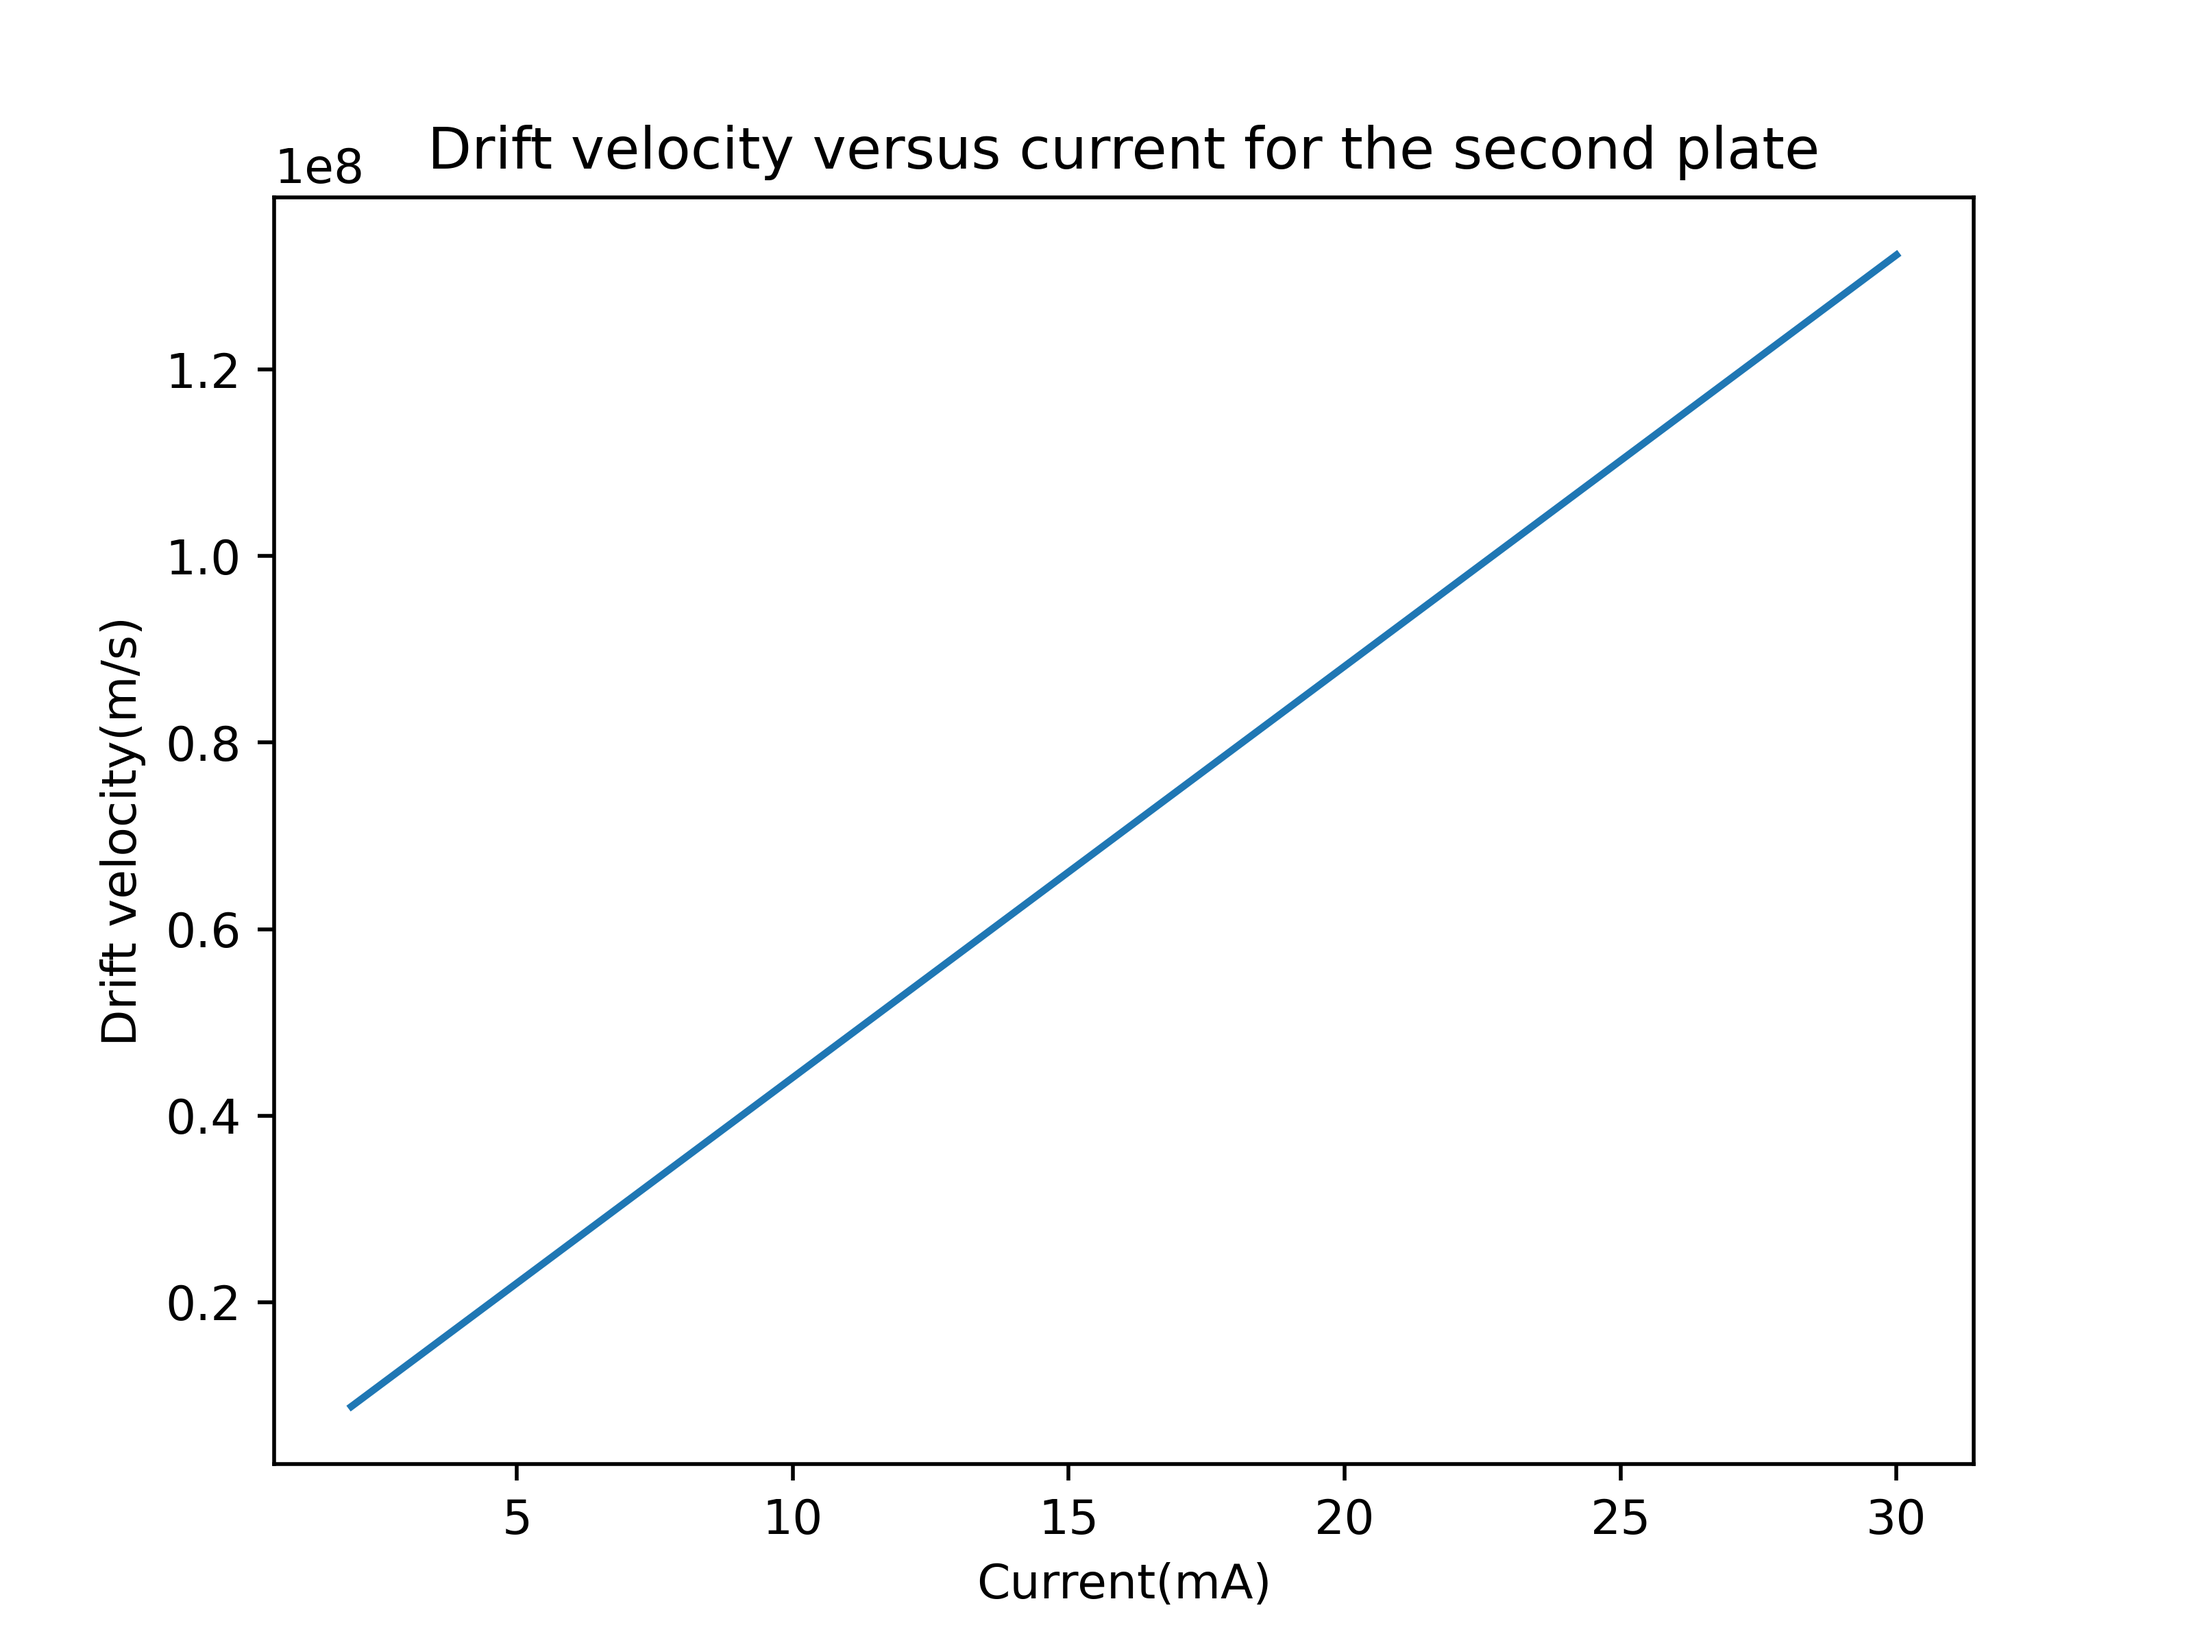
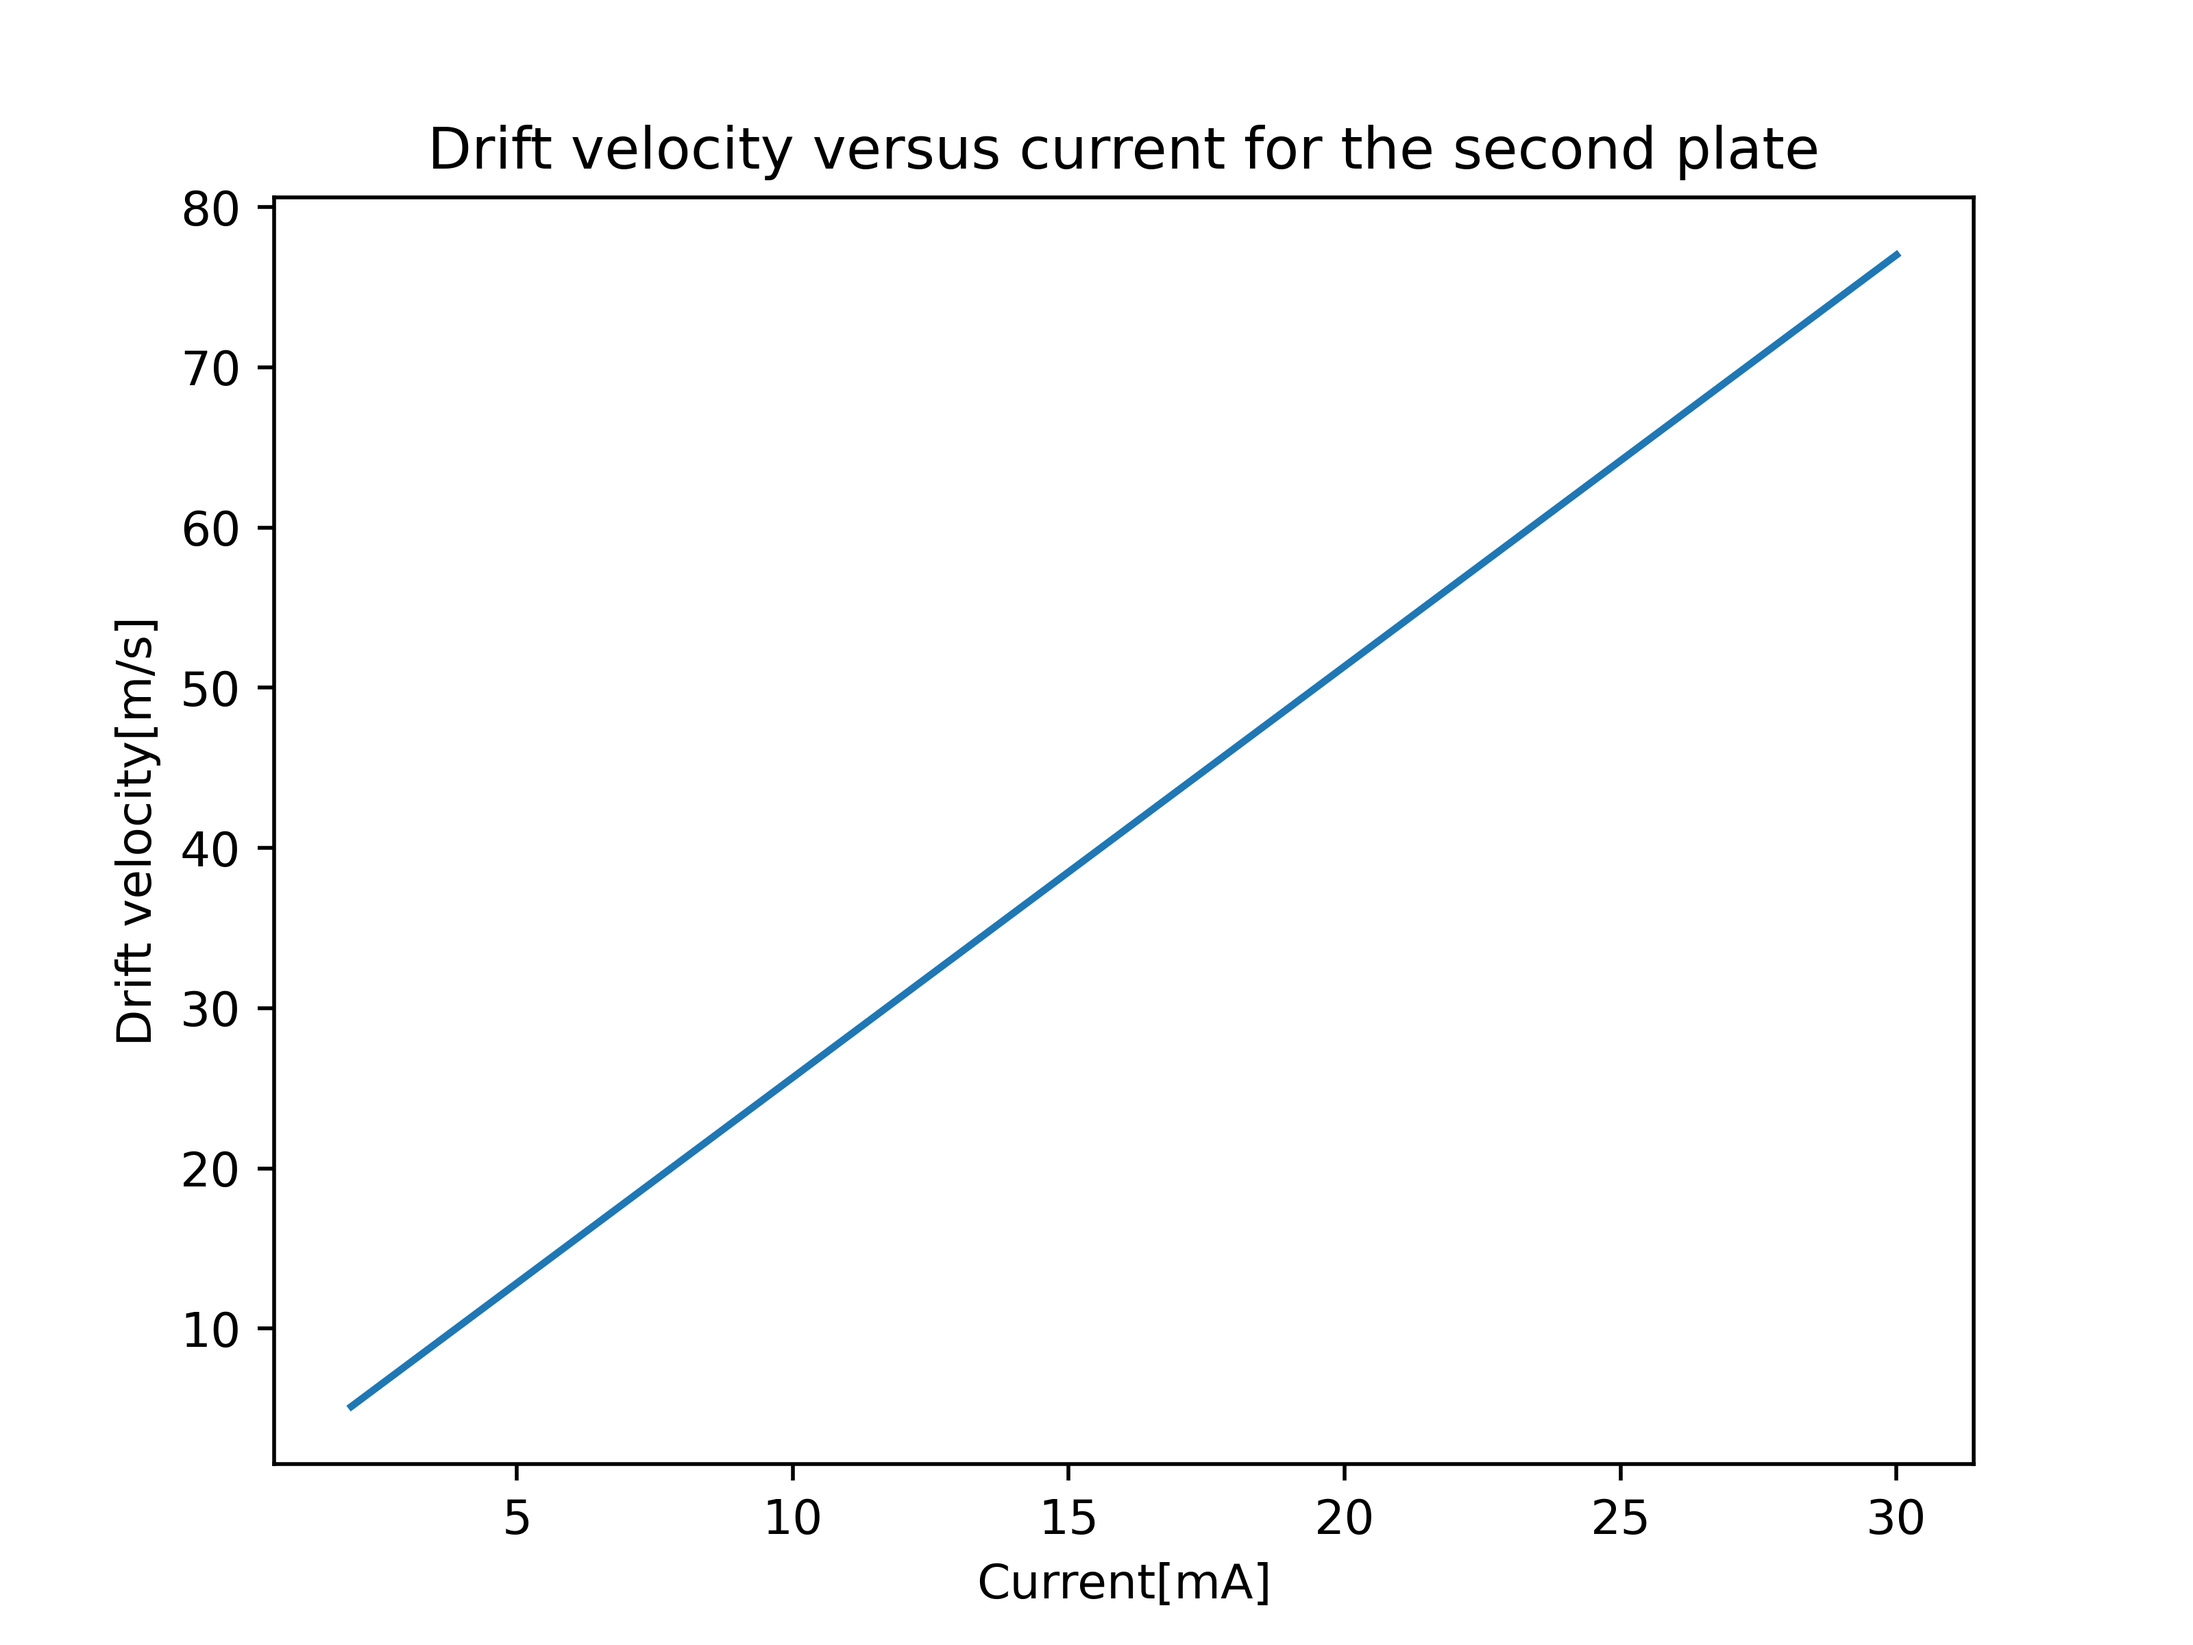
Nicer figurino

diff --git a/main.py b/main.py
@@ -48,10 +48,12 @@ for file in os.listdir('Measurements/Hallvoltage_vs_current_first_plate'):
         popt, pcov = curve_fit(voltamp_characteristic, data.VB1, data.IA1, maxfev=500000, sigma=0.00003*np.ones(len(data.IA1)))
         sigma1arr.append(2*popt[0])
         sigma1errarr.append(2*np.sqrt(np.diag(pcov))[0])
-        plt.errorbar(data.VB1, data.IA1, xerr=data.VB1*1e-2, yerr=data.IA1*1e-2, label="Data")
-        plt.plot(data.VB1, voltamp_characteristic(data.VB1, *popt), label="Fit")
-        plt.xlabel("Voltage[V]")
-        plt.ylabel("Current[A]")
+        # plt.errorbar(data.VB1, data.IA1, xerr=data.VB1*1e-2, yerr=data.IA1*1e-2, label="Data")
+        # plt.plot(data.VB1, voltamp_characteristic(data.VB1, *popt), label="Fit")
+        plt.errorbar(data.IA1, data.VB1, yerr=data.VB1*1e-2, xerr=data.IA1*1e-2, label="Data")
+        plt.plot(voltamp_characteristic(data.VB1, *popt), data.VB1, label="Fit")
+        plt.xlabel("Current[A]")
+        plt.ylabel("Voltage[V]")
         plt.legend()
         plt.title("Voltage drop across the first plate vs current")
         plt.savefig("Figures/" + file + "_first_plate" + ".png", dpi=500)
@@ -74,10 +76,10 @@ for file in os.listdir('Measurements/Hallvoltage_vs_current_second_plate'):
         popt, pcov = curve_fit(voltamp_characteristic, data.VB1, data.IA1, maxfev=500000, sigma=0.00003*np.ones(len(data.IA1)))
         sigma2arr.append(2*popt[0])
         sigma2errarr.append(2*np.sqrt(np.diag(pcov))[0])
-        plt.errorbar(data.VB1, data.IA1, xerr=data.VB1*1e-2, yerr=data.IA1*1e-2, label="Data")
-        plt.plot(data.VB1, voltamp_characteristic(data.VB1, *popt), label="Fit")
-        plt.xlabel("Voltage[V]")
-        plt.ylabel("Current[A]")
+        plt.errorbar(data.IA1, data.VB1, yerr=data.VB1*1e-2, xerr=data.IA1*1e-2, label="Data")
+        plt.plot(voltamp_characteristic(data.VB1, *popt), data.VB1, label="Fit")
+        plt.xlabel("Current[A]")
+        plt.ylabel("Voltage[V]")
         plt.legend()
         plt.title("Voltage drop across the second plate vs current")
         plt.savefig("Figures/" + file + "_second_plate" + ".png", dpi=500)
@@ -312,16 +314,16 @@ for file in os.listdir('Measurements/Hallvoltage_vs_temperature/mag_curr_4A_2nd_
 
 # Plotting the electron drift velocity for both plates as a function of current
 
-plt.plot(np.linspace(2,30, 1000), 1e-3*np.linspace(2,30,1000)/(1e-3*10e-3) / np.abs(sigma1 * mu1))
-plt.xlabel("Current(mA)")
-plt.ylabel("Drift velocity(m/s)")
+plt.plot(np.linspace(2,30, 1000), np.abs(1e-3*np.linspace(2,30,1000)/(1e-3*10e-3) / sigma1 * mu1))
+plt.xlabel("Current[mA]")
+plt.ylabel("Drift velocity[m/s]")
 plt.title("Drift velocity versus current for the first plate")
 plt.savefig("Figures/Drift_velocity_vs_current_first_plate.png", dpi=500)
 plt.close()
 
-plt.plot(np.linspace(2,30, 1000), 1e-3*np.linspace(2,30,1000)/(1e-3*10e-3) / np.abs(sigma2 * mu2))
-plt.xlabel("Current(mA)")
-plt.ylabel("Drift velocity(m/s)")
+plt.plot(np.linspace(2,30, 1000), np.abs(1e-3*np.linspace(2,30,1000)/(1e-3*10e-3) / sigma2 * mu2))
+plt.xlabel("Current[mA]")
+plt.ylabel("Drift velocity[m/s]")
 plt.title("Drift velocity versus current for the second plate")
 plt.savefig("Figures/Drift_velocity_vs_current_second_plate.png", dpi=500)
 plt.close()
